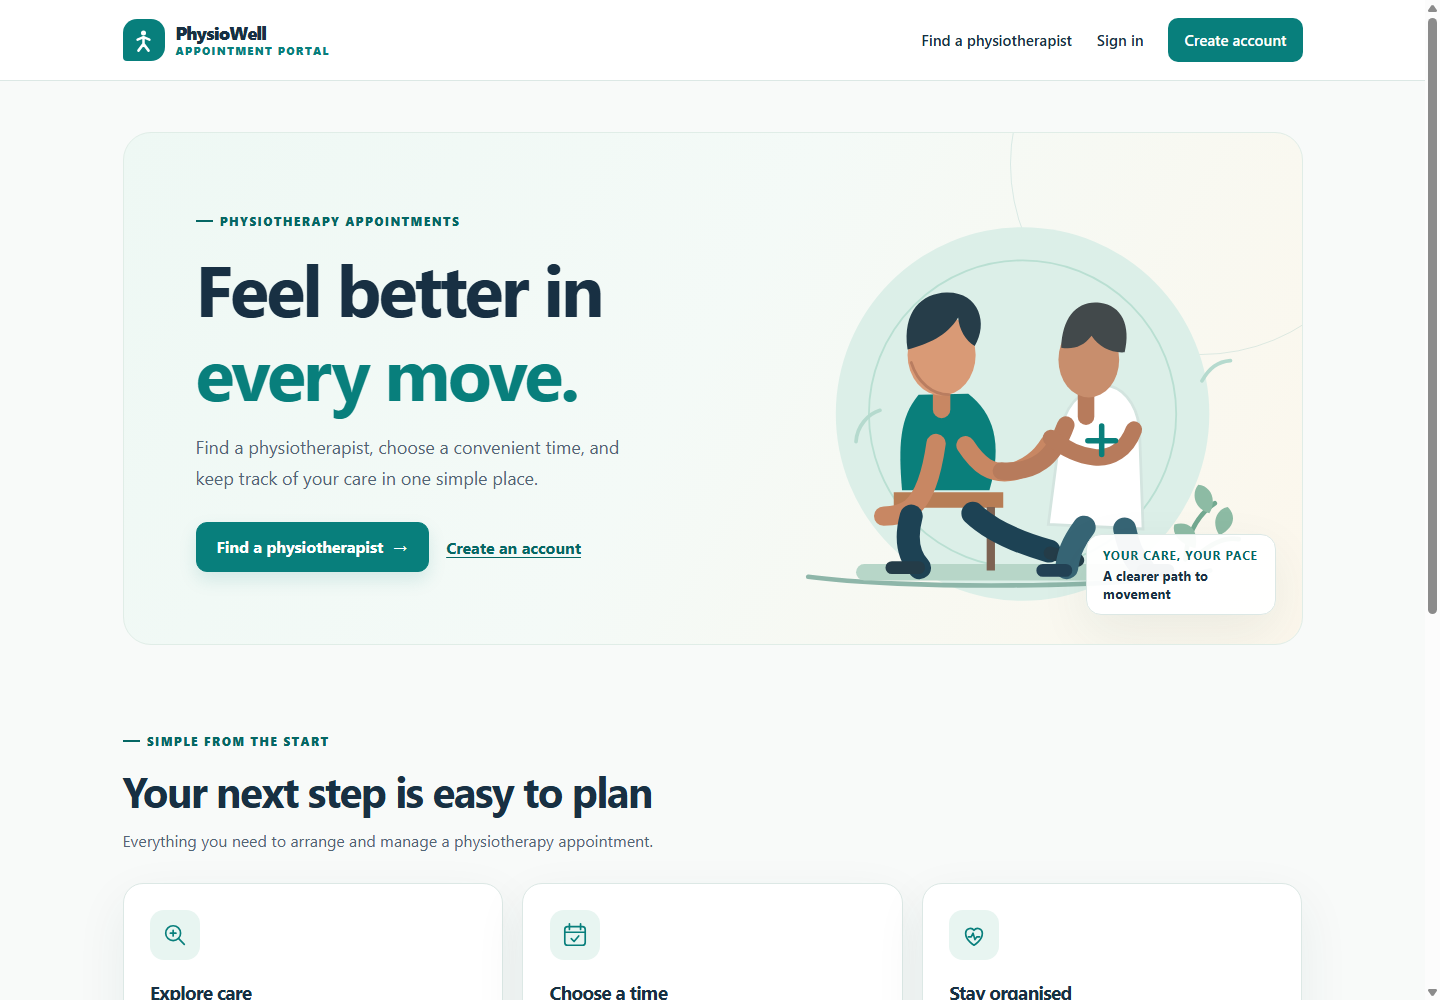
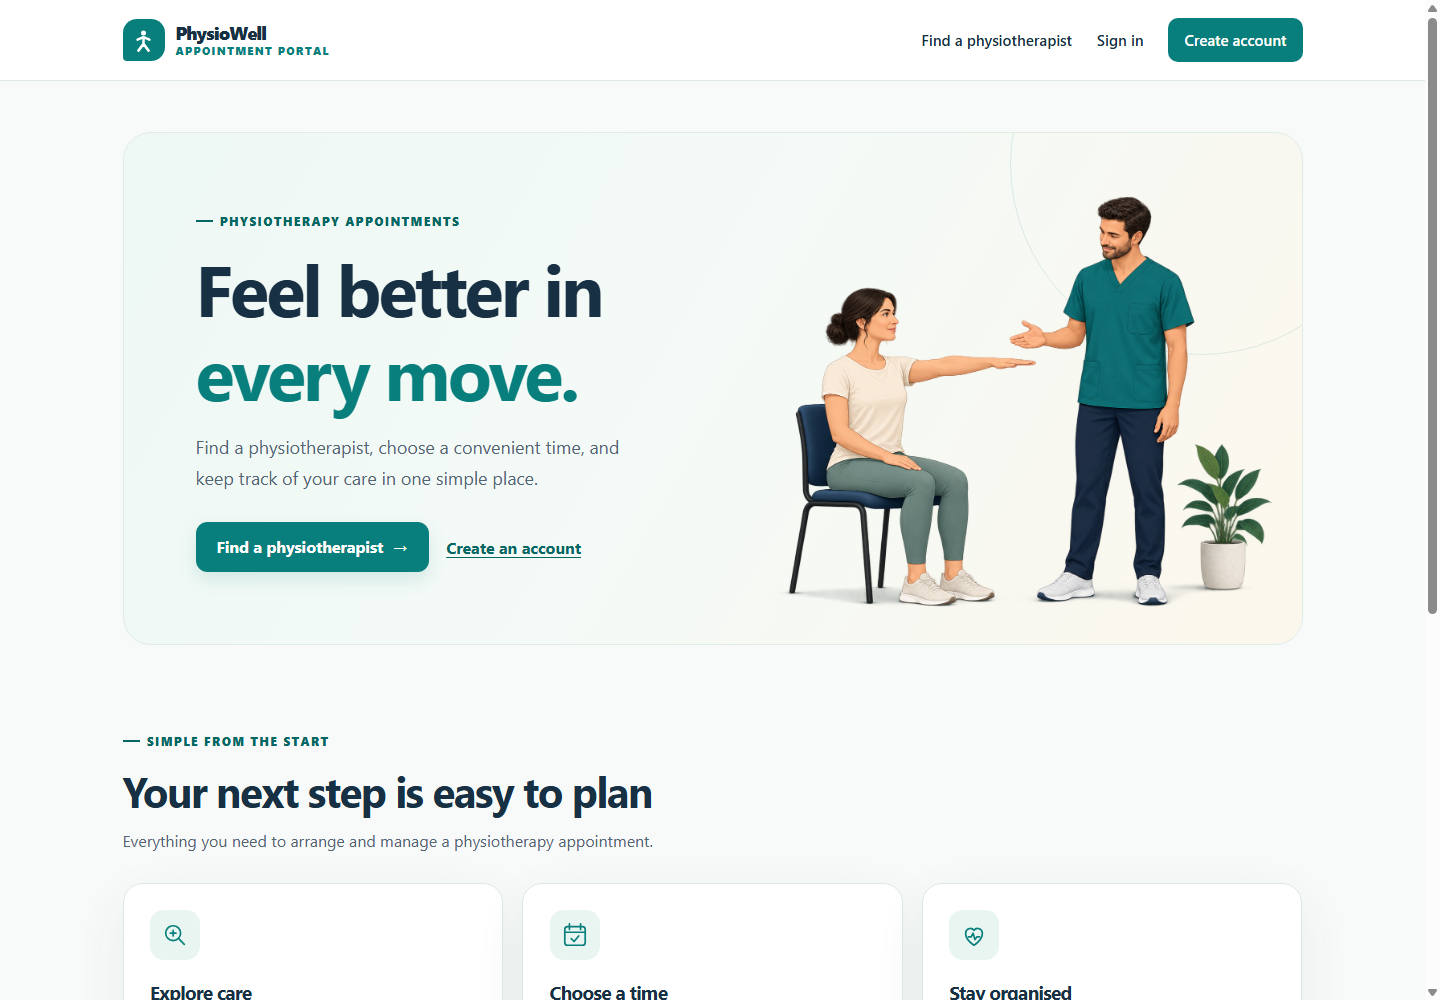
fix: replace physiotherapy illustration with natural limb positions

Changed region(s): [[0.5312, 0.186, 0.875, 0.62]]

diff --git a/src/main/resources/static/css/portal.css b/src/main/resources/static/css/portal.css
@@ -63,8 +63,6 @@ p { line-height: 1.7; }
 .hero-actions { display: flex; align-items: center; gap: 1.1rem; flex-wrap: wrap; margin-top: 1.8rem; }
 .hero-visual { position: relative; display: grid; align-items: end; padding: 1.2rem 1.2rem 0 0; }
 .hero-visual img { width: 100%; height: 100%; max-height: 500px; object-fit: contain; object-position: bottom center; position: relative; z-index: 1; }
-.hero-note { position: absolute; right: 1.6rem; bottom: 1.8rem; z-index: 2; background: rgba(255,255,255,.95); border: 1px solid var(--line); border-radius: 15px; padding: .8rem 1rem; box-shadow: var(--shadow); font-weight: 700; font-size: .84rem; max-width: 190px; }
-.hero-note span { display: block; font-size: .72rem; color: var(--teal-dark); text-transform: uppercase; letter-spacing: .1em; margin-bottom: .15rem; }
 .section { margin-top: 5rem; }
 .section-heading { max-width: 620px; margin-bottom: 1.8rem; }
 .section-heading h2 { font-size: clamp(1.8rem,3.5vw,2.65rem); }
@@ -149,7 +147,6 @@ input:not([type="hidden"]):focus { border-color: var(--teal); }
 @media (max-width: 900px) {
   .hero { grid-template-columns: 1fr .8fr; min-height: 430px; }
   .hero h1 { font-size: clamp(2.3rem,4vw,3.5rem); }
-  .hero-note { display: none; }
   .nav-inner { flex-wrap: wrap; padding: 1rem 0; }
   .nav-links { width: 100%; gap: 1rem; }
   .availability-layout { grid-template-columns: 1fr; }
@@ -164,8 +161,8 @@ input:not([type="hidden"]):focus { border-color: var(--teal); }
   .hero { display: flex; flex-direction: column; border-radius: 20px; }
   .hero-copy { padding: 2rem 1.5rem 0; align-self: stretch; min-width: 0; }
   .hero h1 { max-width: none; }
-  .hero-visual { height: 260px; padding: 0; }
-  .hero-visual img { height: 100%; }
+  .hero-visual { display: flex; justify-content: center; height: 260px; padding: .5rem 1rem; min-height: 0; }
+  .hero-visual img { height: 100%; max-height: 100%; object-position: center; }
   .section { margin-top: 3.2rem; }
   .feature-grid, .grid, .auth-layout { grid-template-columns: 1fr; }
   .auth-aside { order: -1; padding: 0; }

diff --git a/src/main/resources/templates/index.html b/src/main/resources/templates/index.html
@@ -21,8 +21,7 @@
             </div>
         </div>
         <div class="hero-visual">
-            <img th:src="@{/images/movement-session.svg}" src="/images/movement-session.svg" alt="Illustration of a physiotherapist guiding a seated patient through an arm stretch">
-            <div class="hero-note" aria-hidden="true"><span>Your care, your pace</span>A clearer path to movement</div>
+            <img th:src="@{/images/movement-session.png}" src="/images/movement-session.png" alt="A seated patient raises one arm while a standing physiotherapist demonstrates the movement">
         </div>
     </section>
     <section class="section" aria-labelledby="how-title">

diff --git a/src/main/resources/templates/register.html b/src/main/resources/templates/register.html
@@ -30,7 +30,7 @@
         <p class="form-footer">Already have an account? <a th:href="@{/login}">Sign in</a></p>
     </section>
     <aside class="auth-aside">
-        <img th:src="@{/images/movement-session.svg}" src="/images/movement-session.svg" alt="">
+        <img th:src="@{/images/movement-session.png}" src="/images/movement-session.png" alt="">
         <span class="eyebrow">Plan with confidence</span>
         <h2>Your care, organised around you.</h2>
         <p>Explore physiotherapists, find an open time, and return whenever you need to check your appointment.</p>

diff --git a/src/main/resources/templates/login.html b/src/main/resources/templates/login.html
@@ -22,7 +22,7 @@
     <p class="form-footer">New here? <a th:href="@{/register}">Create an account</a></p>
 </section>
     <aside class="auth-aside">
-        <img th:src="@{/images/movement-session.svg}" src="/images/movement-session.svg" alt="">
+        <img th:src="@{/images/movement-session.png}" src="/images/movement-session.png" alt="">
         <span class="eyebrow">Keep moving forward</span>
         <h2>Appointments at a glance.</h2>
         <p>Sign in to see your bookings, check their status, or choose another available time.</p>

diff --git a/src/test/java/com/kirtivispute/physio/appointment/PortalIntegrationTest.java b/src/test/java/com/kirtivispute/physio/appointment/PortalIntegrationTest.java
@@ -114,10 +114,11 @@ class PortalIntegrationTest {
     @Test void anonymousUsersCanBrowseButCannotManageAppointments() throws Exception {
         var session = new BrowserSession();
         assertThat(session.get("/physiotherapists").statusCode()).isEqualTo(200);
-        var illustration = session.get("/images/movement-session.svg");
+        var illustration = session.client.send(HttpRequest.newBuilder(URI.create("http://localhost:" + port + "/images/movement-session.png")).GET().build(),
+                HttpResponse.BodyHandlers.ofByteArray());
         assertThat(illustration.statusCode()).isEqualTo(200);
-        assertThat(illustration.headers().firstValue("Content-Type")).hasValueSatisfying(type -> assertThat(type).contains("image/svg+xml"));
-        assertThat(illustration.body()).contains("<svg", "Guided movement session");
+        assertThat(illustration.headers().firstValue("Content-Type")).hasValueSatisfying(type -> assertThat(type).contains("image/png"));
+        assertThat(illustration.body()).startsWith((byte) 0x89, (byte) 0x50, (byte) 0x4e, (byte) 0x47, (byte) 0x0d, (byte) 0x0a, (byte) 0x1a, (byte) 0x0a);
         assertThat(session.get("/api/physiotherapists").body()).contains("Dr Test One", "Dr Test Two");
         assertThat(session.get("/api/appointments").statusCode()).isEqualTo(401);
         assertThat(session.mutate("POST", "/api/appointments", "{\"slotId\":" + future.getId() + "}").statusCode()).isEqualTo(401);

diff --git a/docs/ui-refresh.md b/docs/ui-refresh.md
@@ -5,7 +5,7 @@ The visual update follows the approved patient portal scope. It changes presenta
 ## Design
 
 - **Theme:** deep navy for text and footer, teal for primary actions, soft mint for supporting surfaces, and a warm cream accent in the home hero.
-- **Physiotherapy context:** an original local SVG shows a guided arm movement session. The same illustration supports the home and account pages; provider cards use small clinician icons, and the slot page uses a clock icon beside practical booking information.
+- **Physiotherapy context:** a local transparent PNG shows a seated patient and a standing physiotherapist with distinct, naturally positioned limbs. The same illustration supports the home and account pages; provider cards use small clinician icons, and the slot page uses a clock icon beside practical booking information.
 - **Patient flow:** the home page explains three steps; provider cards show specialty and description; slots show duration and IST time zone before booking; account and appointment pages share the same navigation and action styles.
 - **Accessibility:** semantic headings and landmarks, a skip link, text alternatives, visible keyboard focus, responsive layouts, and reduced-motion support.
 - **Cost:** the illustration, icons, CSS, and system fonts are stored locally. No paid service, image license, remote font, or external runtime asset is required.
@@ -35,10 +35,12 @@ The two displayed physiotherapists and their schedules remain fictional demo dat
 - [Physiotherapists, mobile](../screenshots/UI_providers_mobile.png)
 - [Available appointments, mobile](../screenshots/UI_slots_mobile.png)
 - [Registration, mobile](../screenshots/UI_registration_mobile.png)
+- [Sign-in, tablet](../screenshots/UI_login_tablet.png)
+- [Sign-in, desktop](../screenshots/UI_login_desktop.png)
 
 These screenshots were captured from a temporary local instance using fictional data. The prior T03–T15 screenshots remain dated proof of their original tasks.
 
-## Local verification on 4 October 2026
+## Initial local verification on 4 October 2026
 
 - `mvn -B -ntp clean package`: 34 backend tests, zero failures/errors/skips, BUILD SUCCESS. [Full log](evidence/UI_backend_build.txt).
 - The temporary preview on port 8092 returned HTTP 200 for home, providers, registration, sign-in, and the SVG asset, with health `UP`.
@@ -52,3 +54,13 @@ These screenshots were captured from a temporary local instance using fictional 
 The merge automatically triggered Jenkins freestyle CI #21 and Pipeline #13; both finished SUCCESS. [Pipeline #13 evidence](evidence/UI_pipeline13.json) records all 39 tests passing, the versioned local registry image, container replacement, and health gate. The [independent Docker check](evidence/UI_deployment_check.json) matched the running container, image, and source commit to this build.
 
 The [live HTTP check](evidence/UI_live_checks.json) verified the updated home, providers, sign-in, registration, and SVG at [the local portal](http://127.0.0.1:8087/), with HTTP 200 and health `UP`. Later documentation commits can create new build numbers through the same polling pipeline.
+
+## Illustration correction
+
+User feedback identified unclear arm and leg positions in the original vector illustration. The replacement `src/main/resources/static/images/movement-session.png` was created with the built-in image-generation tool and stored in the repository. The prompt requested a seated patient with supported thighs, bent knees and feet on the floor, alongside a standing physiotherapist with separate limbs, natural joints and hands; transparent background, navy/teal/mint palette, no touching or overlapping limbs, and no text.
+
+Home, sign-in, and registration now share this corrected asset. The public-image test checks the PNG content type and binary signature. Previous build #13 evidence remains historical and describes the original SVG deployment.
+
+The home-page badge was removed so it cannot cover the clinician's feet. The mobile illustration container now keeps the complete scene visible. Updated screenshots include the sign-in error view at 744 pixels and the home page at 390 pixels, where page width and viewport width both measured 390 pixels.
+
+Local checks on 4 October 2026 passed: 34 backend tests ([build log](evidence/UI_illustration_backend.txt)) and five Selenium journeys against the final preview ([browser log](evidence/UI_illustration_selenium.txt)), with zero failures, errors, or skips.
